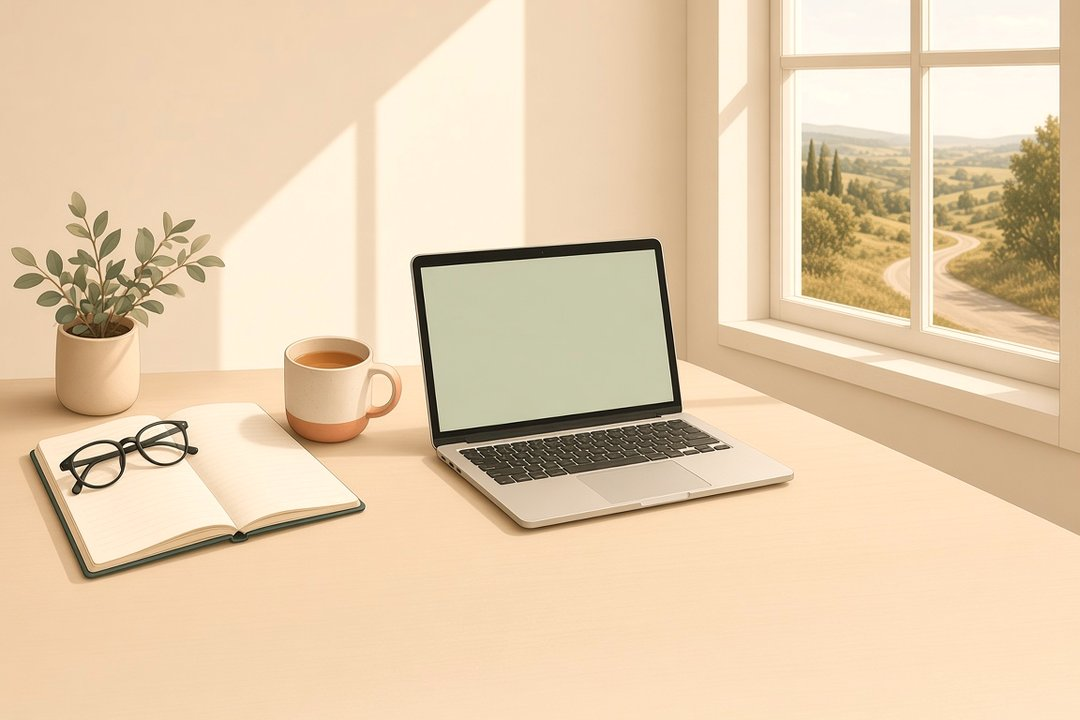
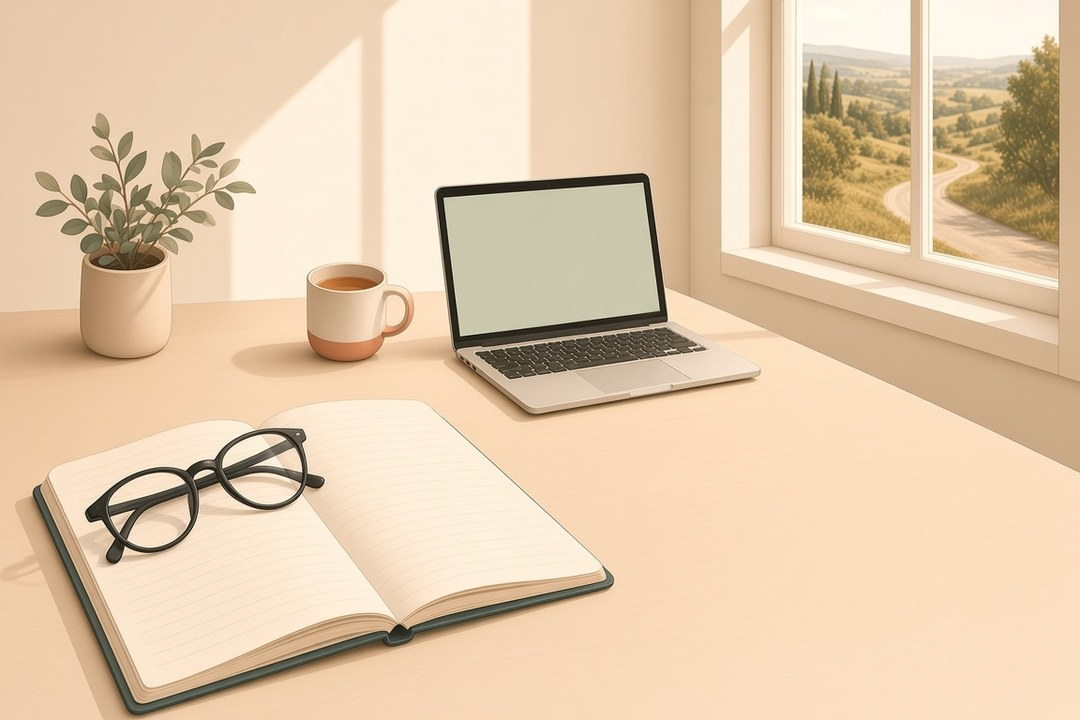
Session visuals v4: static range dots, toric only on the word or a Track B call (never over IC-8/LAL), full intro, focal depth repaint, orb ring room

diff --git a/index.html b/index.html
@@ -567,15 +567,9 @@ body:has(#roadmap:not(:empty)):not(:has(#summary[style*="flex"])) .app-footer{ d
 #visual-caption{ flex:none; max-width:640px; text-align:center; font-size:16px; line-height:1.45; color:var(--ink-2); text-wrap:pretty; }
 #visual-panel.vis-swap #visual-img,#visual-panel.vis-swap #visual-svg,#visual-panel.vis-swap #lens-map,#visual-panel.vis-swap #goals-map{ animation:ciq-vis-in .45s ease-out; }
 @keyframes ciq-vis-in{ from{ opacity:.25; } to{ opacity:1; } }
-/* goals map dynamic dots: default none lit; active goal range lights its dot and card */
-#goals-map .gz{ transition:opacity .35s; }
-#goals-map .gz-card{ stroke:transparent; stroke-width:3; transition:stroke .3s; }
-#goals-map .gz-dot{ fill:#FFFDF9; stroke:#9DB8A2; stroke-width:3; transition:fill .25s, stroke .25s; }
+/* goals board (v4): static, three scenes with labels; nothing lights from speech */
+#goals-map .gz-card{ stroke:transparent; }
 #goals-map .gz-rl{ fill:#1F3D2C; }
-#goals-map.has-focus .gz{ opacity:.38; }
-#goals-map.has-focus .gz.is-on{ opacity:1; }
-#goals-map .gz.is-on .gz-card{ stroke:#1F3D2C; }
-#goals-map .gz.is-on .gz-dot{ fill:#1F3D2C; stroke:#1F3D2C; }
 /* lens map zones: equal size, equal style; the zone being discussed is lit, the rest step back */
 #lens-map .lz-card{ fill:#FFFDF9; stroke:transparent; stroke-width:3; filter:url(#lm-shadow); transition:stroke .3s, fill .3s; }
 #lens-map .lz{ transition:opacity .35s; }
@@ -596,7 +590,12 @@ body:has(#roadmap:not(:empty)):not(:has(#summary[style*="flex"])) .app-footer{ d
 #lens-map.has-focus .lz.is-on{ opacity:1; }
 #lens-map .lz.is-on .lz-card{ fill:#F2F6EF; stroke:#1F3D2C; }
 /* orb row: small orb, status, words toggle */
-#app.ciq-visuals:has(#roadmap:not(:empty)) #orb{ grid-area:orb; width:44px; height:44px; margin:0 0 0 4px; align-self:center; }
+#app.ciq-visuals:has(#roadmap:not(:empty)) #orb{ grid-area:orb; width:44px; height:44px; margin:14px 8px 14px 18px; align-self:center; }
+/* v4: room for the echo rings. Max ring = 44px x 1.6 = 70px, so 13px past the orb on every side; the margins above keep it inside the panel (which clips). */
+#app.ciq-visuals:has(#roadmap:not(:empty)) #orb.speaking .orb-ring{ animation-name:ciq-ring-out-mini; }
+@keyframes ciq-ring-out-mini{ 0%{ transform:scale(1); opacity:.7; } 100%{ transform:scale(1.6); opacity:0; } }
+#app.ciq-visuals:has(#roadmap:not(:empty)) #orb{ box-shadow:0 4px 10px rgba(31,61,44,.14), inset 0 -6px 12px rgba(31,61,44,.12); }
+#app.ciq-visuals:has(#roadmap:not(:empty)) #orb.listening{ box-shadow:0 0 0 5px rgba(220,230,215,.55), 0 4px 10px rgba(31,61,44,.14), inset 0 -6px 12px rgba(31,61,44,.12); }
 #app.ciq-visuals:has(#roadmap:not(:empty)) #orb svg{ width:16px; height:16px; }
 #app.ciq-visuals:has(#roadmap:not(:empty)) #orb::before{ border-width:1px; box-shadow:none; }
 #app.ciq-visuals:has(#roadmap:not(:empty)) #status-pill{ grid-area:status; justify-content:flex-start; text-align:left; font-size:17px; align-self:center; }
@@ -996,25 +995,21 @@ body:has(#roadmap:not(:empty)):not(:has(#summary[style*="flex"])) .app-footer{ d
             <clipPath id="gm-c-far"><rect x="772" y="28" width="352" height="528" rx="22"/></clipPath>
           </defs>
           <rect width="1152" height="768" fill="#F7F2E9"/>
-          <path d="M204,612 H948" stroke="#c9d8c3" stroke-width="8" stroke-linecap="round"/>
           <g class="gz" data-zone="near">
             <image data-href="images/session/v3/goals-near.jpg" x="28" y="28" width="352" height="528" preserveAspectRatio="xMidYMid slice" clip-path="url(#gm-c-near)"/>
             <rect class="gz-card" x="28" y="28" width="352" height="528" rx="22" fill="none"/>
-            <circle class="gz-dot" cx="204" cy="612" r="12"/>
             <text class="gz-rl" x="204" y="656" text-anchor="middle" font-size="32" font-weight="600" font-family="Inter,system-ui,sans-serif" fill="#1F3D2C">Near</text>
             <text x="204" y="688" text-anchor="middle" font-size="22" font-family="Inter,system-ui,sans-serif" fill="#3d463f">Reading, phone</text>
           </g>
           <g class="gz" data-zone="arms">
             <image data-href="images/session/v3/goals-arms.jpg" x="400" y="28" width="352" height="528" preserveAspectRatio="xMidYMid slice" clip-path="url(#gm-c-arms)"/>
             <rect class="gz-card" x="400" y="28" width="352" height="528" rx="22" fill="none"/>
-            <circle class="gz-dot" cx="576" cy="612" r="12"/>
             <text class="gz-rl" x="576" y="656" text-anchor="middle" font-size="32" font-weight="600" font-family="Inter,system-ui,sans-serif" fill="#1F3D2C">Arm's length</text>
             <text x="576" y="688" text-anchor="middle" font-size="22" font-family="Inter,system-ui,sans-serif" fill="#3d463f">Screens, dashboard</text>
           </g>
           <g class="gz" data-zone="far">
             <image data-href="images/session/v3/goals-far.jpg" x="772" y="28" width="352" height="528" preserveAspectRatio="xMidYMid slice" clip-path="url(#gm-c-far)"/>
             <rect class="gz-card" x="772" y="28" width="352" height="528" rx="22" fill="none"/>
-            <circle class="gz-dot" cx="948" cy="612" r="12"/>
             <text class="gz-rl" x="948" y="656" text-anchor="middle" font-size="32" font-weight="600" font-family="Inter,system-ui,sans-serif" fill="#1F3D2C">Far</text>
             <text x="948" y="688" text-anchor="middle" font-size="22" font-family="Inter,system-ui,sans-serif" fill="#3d463f">Driving, outdoors</text>
           </g>
@@ -1980,7 +1975,6 @@ const VISUAL_CHARS_PER_SEC = 15;        // speech pace used to time cues inside 
 const VISUAL_MAX_CUE_DELAY_MS = 25000;
 const VISUAL_TOOL_PRIORITY_MS = 45 * 1000;
 const LENS_CATEGORIES = ['monofocal', 'edof', 'multifocal'];
-const RANGE_KEYS = ['near', 'arms', 'far'];
 
 // Modular manifest (JSON-safe): every stage image, secondary slide, lens
 // category and dynamic range rule with an `enabled` flag.
@@ -1999,7 +1993,7 @@ const VISUALS_MANIFEST = {
     welcome: {
       stage: 'welcome', role: 'main', kind: 'image', enabled: true,
       src: 'images/session/v3/intro.jpg',
-      alt: 'A calm desk with an open notebook, reading glasses and a cup of tea.',
+      alt: 'A calm desk with an open notebook, reading glasses, a plant and a cup of tea.',
       caption: 'Let\u2019s start with where you are today.',
     },
     cataract: {
@@ -2011,11 +2005,11 @@ const VISUALS_MANIFEST = {
     focal_points: {
       stage: 'foundations', role: 'secondary', kind: 'image', enabled: true,
       src: 'images/session/v3/focal.jpg',
-      alt: 'Near, arm\u2019s length and far: an open book and reading glasses up close, a laptop at arm\u2019s length, and a road through the window far away.',
+      alt: 'Near, arm\u2019s length and far: an open book and reading glasses close up in the foreground, a laptop at arm\u2019s length on the desk, and countryside through the window far away.',
       overlay: [
-        { t: 'text', x: 135, y: 446, anchor: 'middle', cls: 'ov-label', s: 'Near' },
-        { t: 'text', x: 405, y: 446, anchor: 'middle', cls: 'ov-label', s: 'Arm\u2019s length' },
-        { t: 'text', x: 615, y: 446, anchor: 'middle', cls: 'ov-label', s: 'Far' },
+        { t: 'text', x: 458, y: 436, anchor: 'middle', cls: 'ov-label', s: 'Near' },
+        { t: 'text', x: 400, y: 300, anchor: 'middle', cls: 'ov-label', s: 'Arm\u2019s length' },
+        { t: 'text', x: 620, y: 236, anchor: 'middle', cls: 'ov-label', s: 'Far' },
       ],
       caption: 'A focal point is a range where vision is clearest without glasses: near, arm\u2019s length or far.',
       kicker: 'Focal points',
@@ -2053,7 +2047,7 @@ const VISUALS_MANIFEST = {
       stage: 'lens_options', role: 'secondary', kind: 'map_overlay', enabled: true,
       kicker: 'Add-on: Toric, for astigmatism',
       caption: 'Toric is an add-on, not a separate type: a toric version of a lens also corrects astigmatism. Which versions are available depends on the lens and how much astigmatism you have, which your surgeon measures.',
-      cuePattern: '\\b(toric|corrects? astigmatism|correcting astigmatism|for astigmatism)\\b',
+      cuePattern: '\\btoric\\b', // v4: the explicit word only; never astigmatism phrases
     },
     lal: {
       stage: 'lens_options', role: 'secondary', kind: 'image', enabled: true,
@@ -2111,24 +2105,12 @@ const VISUALS_MANIFEST = {
       cuePattern: '\\b(multifocal|trifocal|full[- ]range|fuller range|panoptix|synergy|odyssey|envy)\\b',
     },
   },
-  monoRanges: {
-    near:  { enabled: true, cuePattern: '\\b(up close|set for near|for near|near vision|reading|phone)\\b' },
-    arms:  { enabled: true, cuePattern: '\\b(arm\'?s[- ]length|intermediate|computer|dashboard|cooking)\\b' },
-    far:   { enabled: true, cuePattern: '\\b(farther(?:\\s+out)?|distance|driving|tv|(?<!so )(?<!how )(?<!too )(?<!as )far(?! fewer)(?! more)(?! less)(?! from))\\b' },
-    clear: { enabled: true, cuePattern: '\\b(not sure|more than one|choose one|all three)\\b' },
-  },
-  goalRanges: {
-    near:  { enabled: true, cuePattern: '\\b(up close|reading|books?|menus?|medication|labels?|(?<!readers for )(?:small print|fine print)|phone|tablet|cards|needlework|near)\\b' },
-    arms:  { enabled: true, cuePattern: '\\b(arm\'?s[- ]length|intermediate|computer|screen|screens|laptop|dashboard|cooking|stove|hands in front)\\b' },
-    far:   { enabled: true, cuePattern: '\\b(farther|distance|driving|night driving|headlight|tv|golf|outdoors|faces across|(?<!so )(?<!how )(?<!too )(?<!as )far(?! fewer)(?! more)(?! less)(?! from))\\b' },
-    clear: { enabled: true, cuePattern: '\\b(not sure yet|weighing it up|all three|three zones)\\b' },
-  },
 };
 
 function visualApplyProfile(manifest, profile) {
   const base = JSON.parse(JSON.stringify(manifest));
   if (!profile) return base;
-  for (const group of ['stages', 'slides', 'categories', 'monoRanges', 'goalRanges']) {
+  for (const group of ['stages', 'slides', 'categories']) {
     if (!profile[group]) continue;
     for (const [k, patch] of Object.entries(profile[group])) {
       if (base[group][k]) Object.assign(base[group][k], patch);
@@ -2154,19 +2136,12 @@ function visualCueEntriesForStage(stage, manifest = VISUALS_MANIFEST) {
       const cat = manifest.categories[id];
       if (cat && cat.enabled && cat.cuePattern) entries.push({ cue: id, pattern: cat.cuePattern });
     }
-    for (const [rk, rule] of Object.entries(manifest.monoRanges || {})) {
-      if (rule && rule.enabled && rule.cuePattern) entries.push({ cue: 'mono:' + rk, pattern: rule.cuePattern });
-    }
   }
-  if (stage === 'vision_goals' || stage === 'tier_gate') {
-    for (const [rk, rule] of Object.entries(manifest.goalRanges || {})) {
-      if (rule && rule.enabled && rule.cuePattern) entries.push({ cue: 'goal:' + rk, pattern: rule.cuePattern });
-    }
-  }
+  // v4: no speech-driven range dots (lens cards and goals are static).
   return entries;
 }
 
-let visualState = { stage: null, slide: null, category: null, monoRange: null, goalRange: null, toolAt: 0 };
+let visualState = { stage: null, slide: null, category: null, toolAt: 0 };
 let visualCueTimers = [];
 
 // Fold typographic apostrophes and case so cue patterns can stay ASCII.
@@ -2185,75 +2160,58 @@ function visualCueIsNegated(text, index) {
   if (/\bnot(?: an?)?\b[^,.!?;:]{0,50}\bor\s+$/i.test(before)) return true;
   return false;
 }
-function visualLineIsMonovisionTalk(text) {
-  return /\bmonovision\b|which eye was set|one eye.{0,100}(the other|other eye)/.test(text);
+// v4: "toric" right after a negation in the same clause ("isn't available in a toric version") is not a cue.
+function visualToricIsNegated(text, index) {
+  const before = text.slice(Math.max(0, index - 48), index);
+  const clause = before.split(/[,.!?;:]/).pop();
+  return /(?:\bnot\b|n't\b|\bno\b|\bnever\b|\bwithout\b)/.test(clause);
 }
+// v4: while the IC-8 or LAL slide is up, the toric overlay never replaces it.
+const VISUAL_TORIC_BLOCKERS = ['ic8', 'lal'];
 // Pure: ordered cues in one agent line, each with a delay from the line's start.
 function visualCuePlan(stage, lower, manifest = VISUALS_MANIFEST) {
   const text = visualNormalize(lower);
-  const monovisionTalk = visualLineIsMonovisionTalk(text);
   const hits = [];
   for (const entry of visualCueEntriesForStage(stage, manifest)) {
-    if (monovisionTalk && (entry.cue === 'goal:near' || entry.cue === 'goal:far')) continue;
     const re = new RegExp(entry.pattern, 'g');
     for (const m of text.matchAll(re)) {
       if (visualCueIsNegated(text, m.index)) continue;
+      if (entry.cue === 'toric' && visualToricIsNegated(text, m.index)) continue;
       hits.push({ cue: entry.cue, index: m.index });
     }
   }
   hits.sort((a, b) => a.index - b.index);
   const plan = [];
+  let blockerSeen = false;
   for (const h of hits) {
+    // v4: a line that brings up the IC-8 or the LAL stays on that slide; later category or
+    // toric words in the same line ("the other eye gets a basic or toric lens") don't replace it.
+    if (blockerSeen && (h.cue === 'toric' || LENS_CATEGORIES.includes(h.cue))) continue;
+    if (VISUAL_TORIC_BLOCKERS.includes(h.cue)) blockerSeen = true;
     if (plan.length && plan[plan.length - 1].cue === h.cue) continue; // repeated word, same cue
     plan.push({ cue: h.cue, delayMs: Math.min(VISUAL_MAX_CUE_DELAY_MS, Math.round(h.index / VISUAL_CHARS_PER_SEC * 1000)) });
-  }
-  // A line that names two or more ranges in the same family is an overview, not a choice — finish on the default (none lit).
-  for (const prefix of ['mono:', 'goal:']) {
-    const named = new Set(plan.filter(s => s.cue.startsWith(prefix) && s.cue !== prefix + 'clear').map(s => s.cue));
-    if (named.size >= 2) {
-      const lastFamily = [...plan].reverse().find(s => s.cue.startsWith(prefix));
-      if (lastFamily && lastFamily.cue !== prefix + 'clear') {
-        plan.push({ cue: prefix + 'clear', delayMs: plan[plan.length - 1].delayMs });
-      }
-    }
   }
   return plan;
 }
 // Pure: apply one cue to the state. Never touches the stage.
 function visualApplyCue(state, cue, track, manifest = VISUALS_MANIFEST) {
   const v = { ...state };
-  if (cue.startsWith('goal:')) {
-    if (v.stage !== 'vision_goals' && v.stage !== 'tier_gate') return v;
-    const rk = cue.slice(5);
-    if (!manifest.goalRanges?.[rk]?.enabled) return v;
-    v.goalRange = rk === 'clear' ? null : (RANGE_KEYS.includes(rk) ? rk : v.goalRange);
-    return v;
-  }
-  if (cue.startsWith('mono:')) {
-    if (v.stage !== 'lens_options' || v.category !== 'monofocal' || v.slide) return v;
-    const rk = cue.slice(5);
-    if (!manifest.monoRanges?.[rk]?.enabled) return v;
-    v.monoRange = rk === 'clear' ? null : (RANGE_KEYS.includes(rk) ? rk : v.monoRange);
-    return v;
-  }
   if (LENS_CATEGORIES.includes(cue)) {
     const cat = manifest.categories[cue];
     if (v.stage !== 'lens_options' || !cat || !cat.enabled) return v;
     if (v.slide === 'toric' && track === 'B') return v; // in the toric lesson, keep the toric layer equal on all 3
     v.category = cue;
     v.slide = null;
-    v.monoRange = null; // default: no single monofocal range lit until named
     return v;
   }
   const slide = manifest.slides[cue];
   if (!slide || slide.role !== 'secondary' || !slide.enabled || slide.stage !== v.stage) return v;
   if (cue === 'toric') {
+    if (VISUAL_TORIC_BLOCKERS.includes(v.slide)) return v; // v4: never over the IC-8 or LAL slide
     v.slide = 'toric';
     v.category = null; // axis marks on all 3 lenses equally; no single category highlighted
-    v.monoRange = null;
   } else {
     v.slide = cue;
-    v.monoRange = null;
     if (slide.homeCategory) {
       const home = manifest.categories[slide.homeCategory];
       v.category = (home && home.enabled) ? slide.homeCategory : null;
@@ -2261,27 +2219,24 @@ function visualApplyCue(state, cue, track, manifest = VISUALS_MANIFEST) {
   }
   return v;
 }
-// Pure: a new stage always starts on its main image with default unlit range dots.
-function visualForStage(stage) { return { stage, slide: null, category: null, monoRange: null, goalRange: null, toolAt: 0 }; }
+// Pure: a new stage always starts on its main image.
+function visualForStage(stage) { return { stage, slide: null, category: null, toolAt: 0 }; }
 // Pure: a track opening (exact track-entry sentence or record_track_switch).
 function visualForTrack(state, track, manifest = VISUALS_MANIFEST) {
   if (state.stage !== 'lens_options') return state;
-  if (track === 'C') return { ...state, slide: null, category: manifest.categories.monofocal.enabled ? 'monofocal' : null, monoRange: null };
-  if (track === 'B') return manifest.slides.toric.enabled ? { ...state, slide: 'toric', category: null, monoRange: null } : { ...state, slide: null, category: null, monoRange: null };
-  if (track === 'A') return { ...state, slide: null, category: null, monoRange: null }; // EDOF or multifocal lights when named
+  if (track === 'C') return { ...state, slide: null, category: manifest.categories.monofocal.enabled ? 'monofocal' : null };
+  if (track === 'B') {
+    if (VISUAL_TORIC_BLOCKERS.includes(state.slide)) return state; // v4: never over the IC-8 or LAL slide
+    return manifest.slides.toric.enabled ? { ...state, slide: 'toric', category: null } : { ...state, slide: null, category: null };
+  }
+  if (track === 'A') return { ...state, slide: null, category: null }; // EDOF or multifocal lights when named
   return state;
 }
 // set_visual tool values (design; not on the agent). Returns null if disabled or not for this stage.
 function visualFromTool(state, visual, manifest = VISUALS_MANIFEST) {
   const mainId = visualStageMain(state.stage, manifest);
   if (visual === mainId || (visual === 'lens_overview' && state.stage === 'lens_options')) {
-    return { ...state, slide: null, category: null, monoRange: null, goalRange: null };
-  }
-  if ((state.stage === 'vision_goals' || state.stage === 'tier_gate') && RANGE_KEYS.includes(visual)) {
-    return visualApplyCue(state, 'goal:' + visual, 'tool', manifest);
-  }
-  if (state.stage === 'lens_options' && RANGE_KEYS.includes(visual) && state.category === 'monofocal' && !state.slide) {
-    return visualApplyCue(state, 'mono:' + visual, 'tool', manifest);
+    return { ...state, slide: null, category: null };
   }
   if (LENS_CATEGORIES.includes(visual)) {
     if (state.stage !== 'lens_options' || !manifest.categories[visual]?.enabled) return null;
@@ -2289,6 +2244,7 @@ function visualFromTool(state, visual, manifest = VISUALS_MANIFEST) {
   }
   const slide = manifest.slides[visual];
   if (!slide || slide.role !== 'secondary' || !slide.enabled || slide.stage !== state.stage) return null;
+  if (visual === 'toric' && VISUAL_TORIC_BLOCKERS.includes(state.slide)) return null; // v4: not over the IC-8 or LAL slide
   return visualApplyCue(state, visual, 'tool', manifest);
 }
 function visualFrameOf(state, manifest = VISUALS_MANIFEST) {
@@ -2305,15 +2261,11 @@ function ciqVisualRender() {
   const frame = visualFrameOf(v);
   const isToric = frame === 'toric';
   const focusCat = isToric ? null : v.category;
-  const monoRange = (frame === 'lens_map' && focusCat === 'monofocal') ? v.monoRange : null;
-  const goalRange = (frame === 'daily_life') ? v.goalRange : null;
-  const key = [frame, focusCat || '', monoRange || '', goalRange || ''].join('|');
+  const key = [frame, focusCat || ''].join('|');
   const frameChanged = panel.dataset.frame !== frame;
   panel.dataset.stage = v.stage || '';
   panel.dataset.frame = frame;
   panel.dataset.category = focusCat || '';
-  panel.dataset.monoRange = monoRange || '';
-  panel.dataset.goalRange = goalRange || '';
   if (panel.dataset.key === key) return;
   panel.dataset.key = key;
   const img = document.getElementById('visual-img');
@@ -2330,9 +2282,7 @@ function ciqVisualRender() {
     map.classList.toggle('toric-on', isToric);
     map.classList.toggle('has-focus', !!focusCat);
     map.querySelectorAll('.lz').forEach(g => g.classList.toggle('is-on', g.dataset.zone === focusCat));
-    map.querySelectorAll('.lz[data-zone="monofocal"]').forEach(mz => {
-      mz.querySelectorAll('.lz-dot, .lz-rl').forEach(el => el.classList.toggle('on', el.dataset.range === monoRange));
-    });
+    // v4: range dots are static (fixed per card in the markup); speech never lights them.
     kick.textContent = isToric ? (VISUALS_MANIFEST.slides.toric.kicker || '') : '';
     cap.textContent = isToric
       ? VISUALS_MANIFEST.slides.toric.caption
@@ -2341,14 +2291,14 @@ function ciqVisualRender() {
     const meta = VISUALS_MANIFEST.slides.daily_life;
     img.hidden = true;
     map.hidden = true;
-    gmap.hidden = false;
-    gmap.classList.toggle('has-focus', !!goalRange);
-    gmap.querySelectorAll('.gz').forEach(g => g.classList.toggle('is-on', g.dataset.zone === goalRange));
+    map.classList.remove('toric-on');
+    gmap.hidden = false; // v4: static goals board, no dots
     kick.textContent = meta.kicker || '';
     cap.textContent = meta.caption;
   } else {
     const meta = VISUALS_MANIFEST.slides[frame] || VISUALS_MANIFEST.slides.welcome;
     map.hidden = true;
+    map.classList.remove('toric-on'); // v4: a hidden map never keeps a stale toric layer
     if (gmap) gmap.hidden = true;
     if (vsvg && Array.isArray(meta.overlay) && meta.overlay.length) {
       img.hidden = true;

diff --git a/images/session/v3/SOURCE.md b/images/session/v3/SOURCE.md
@@ -7,10 +7,10 @@ drawn in code (HTML/SVG) so it can be edited and translated.
 
 | File | Screen | Notes |
 |---|---|---|
-| `intro.jpg` | 1 Intro | Intro option A (desk still life). |
-| `focal.jpg` | 2 Basics, focal points | Repaint option 1. Near / Arm's length / Far labels drawn in code. |
+| `intro.jpg` | 1 Intro | Intro option A (desk still life). v4: the full uncropped painting (book and glasses whole), with the cream extended above and below to make it 3:2. |
+| `focal.jpg` | 2 Basics, focal points | v4 repaint with real depth: book and reading glasses large in the near foreground, laptop at arm's length on the desk, countryside through the window far away. Near / Arm's length / Far labels drawn in code. |
 | `astigmatism-eye.jpg` | 2 Basics, astigmatism | Astigmatism option B base painting (no rays). The two-focus rays (one focal point in front of the retina, one behind) are an SVG overlay in `VISUALS_MANIFEST.slides.astigmatism.overlay`. |
-| `goals-near.jpg`, `goals-arms.jpg`, `goals-far.jpg` | 3 Your goals | Repaint option 1. Shown inside the goals SVG map; dots and labels unchanged. |
+| `goals-near.jpg`, `goals-arms.jpg`, `goals-far.jpg` | 3 Your goals | Repaint option 1. Shown inside the goals SVG board. v4: static, with labels only and no dots. |
 | `goals-board.jpg` | 3 Your goals | Static composite of the three goal panels (fallback only). |
 | `lens-monofocal.png`, `lens-edof.png`, `lens-multifocal.png` | 4 Lens options map | Lens set C, cut out to a transparent background. One-piece acrylic, C-loop haptics in the S/pinwheel orientation. Toric rim dots are drawn in code (`.lz-toric`). |
 | `ic8.jpg` | 4 Lens options, IC-8 | Lens set C IC-8 (annular mask about 3.2 mm outer / 1.36 mm inner on a 6 mm optic) cut out and placed on the session cream. |
